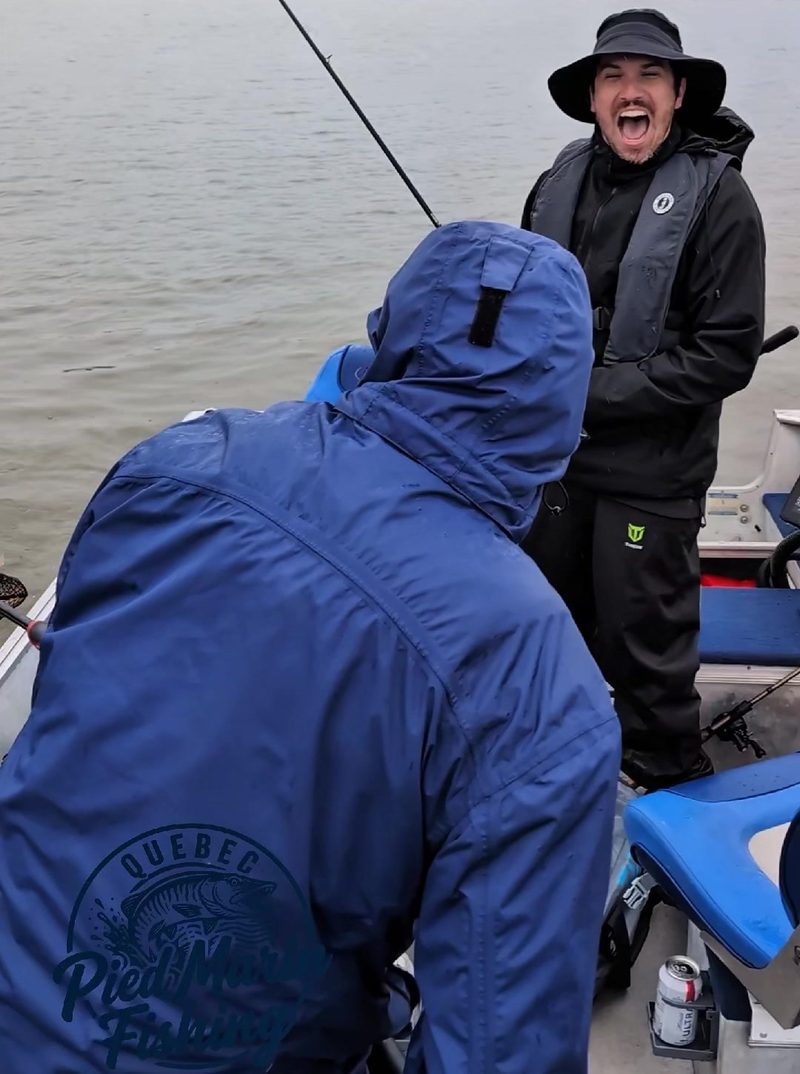
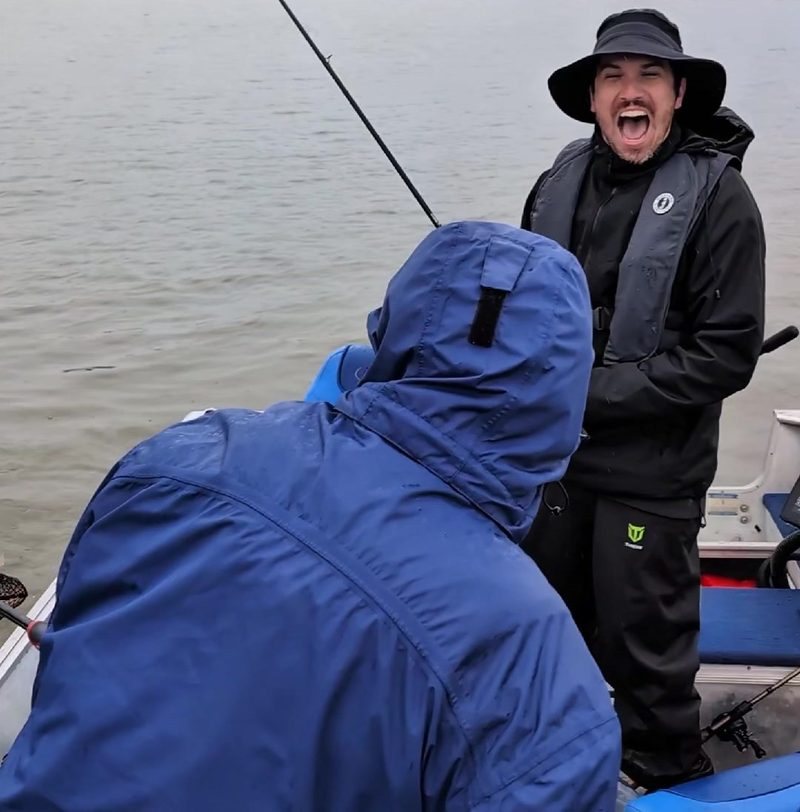
Retirer le filigrane des trois images du maskinonge, et la canette
Recoupees depuis les images sources plutot que retouchees.

L'effacement par inpainting a ete essaye et rejete : cv2.INPAINT_TELEA et
INPAINT_NS laissent tous deux un pate visible sur 400x350 px, avec la ligne
du plat-bord detruite et des restes du brochet du logo. Ces algorithmes sont
faits pour des rayures fines, pas pour un logo. Le recadrage est la seule
option propre.

Le filigrane occupe y 1566-1920 sur la source 1080x1920. Les trois images
s'arretent maintenant a 1566 : l'intersection est vide, ce qui est une preuve
geometrique et non une detection. (Un test par couleur aurait menti : le cire
bleu marine des cires donne exactement la meme signature que le logo — c'est
d'ailleurs ce qui avait fait echouer ma premiere detection.)

La bande coupee emporte aussi la canette de biere qui trainait en bas a
droite de la photo de reaction, ce qui repond a la deuxieme demande sans
avoir a flouter quoi que ce soit.

Les trois gardent leur sujet : la gerbe d'eau et le poisson en surface,
l'epuisette avec le maskinonge dedans, Kevin B. bouche grande ouverte.

Verifie : les 4 photos de la fiche chargent avec leur srcset, aucune 4xx,
imgok (155 images sur 5 formats), audit2, sync-html-fallbacks --check.

Claude-Session: https://claude.ai/code/session_01Xpd6edZqGyBhfo224pPL8k

diff --git a/prises/maskinonge-kevin-b.html b/prises/maskinonge-kevin-b.html
@@ -92,7 +92,7 @@
 
 <section class="alt"><div class="container"><div class="section-head"><h2 data-i18n="cp.story" data-en="How it happened">Comment ça s'est passé</h2></div><p class="tp-notes" data-en="A day of trolling under fine rain, near enough without a break from morning to evening, and water so stained you couldn't see a thing in it. The walleye were biting anyway — one of those days when the line never stays quiet for long. Kevin B. was pulling a small crankbait when his rod loaded up all at once: the bottom, he figured. A few seconds later the reel started peeling on its own. « Criss, le fond bouge! » — the bottom's moving. A good five to ten minutes of fight and two passes under the boat that had everyone wondering, then BOBE scooped it first try the moment Kevin brought it alongside. We were out for pike, not muskie: fifty inches out of season, measured on the cradle, one photo, and straight back in the water — not a hook left in it. It went back down as fast as it had come up.">Une journée de traîne sous la pluie fine, presque sans répit du matin au soir, et une eau si trouble qu'on n'y voyait rien. Ça mordait quand même — le doré était au rendez-vous, une de ces journées où la ligne ne reste jamais tranquille bien longtemps. Kevin B. traînait un petit crankbait quand sa canne s'est arquée d'un coup : le fond, s'est-il dit. Quelques secondes plus tard, le moulinet se déroulait tout seul. « Criss, le fond bouge! » Cinq à dix bonnes minutes de combat et deux passages sous la chaloupe à se demander s'il tiendrait, puis BOBE l'a cueilli du premier coup dès que Kevin l'a ramené le long du bord. On était au brochet, pas au maskinongé : cinquante pouces hors saison, mesurés sur la civière, une photo, et remis à l'eau sur-le-champ — pas un hameçon resté pris. Il a replongé vers le fond aussi vite qu'il en était sorti.</p></div></section>
 
-<section><div class="container"><div class="section-head"><h2 data-i18n="cp.gallery" data-en="The photos">Les photos</h2></div><div class="cp-gallery"><figure class="cp-shot"><img data-en-alt="Kevin B. and BOBE holding a 50-inch muskie aboard, in the rain" src="assets/img/catches/maskinonge-kevin-b.jpg" srcset="assets/img/catches/maskinonge-kevin-b-160.jpg 160w, assets/img/catches/maskinonge-kevin-b-400.jpg 400w, assets/img/catches/maskinonge-kevin-b-800.jpg 800w, assets/img/catches/maskinonge-kevin-b.jpg 1200w" sizes="(max-width: 700px) 92vw, 720px" alt="Kevin B. et BOBE tenant un maskinongé de 50 pouces à bord, sous la pluie" loading="eager" width="1200" height="900"></figure><figure class="cp-shot"><img data-en-alt="The muskie thrashing at the surface in a burst of white water, the net just entering the frame alongside the gunwale." src="assets/img/catches/maskinonge-kevin-b-surface.jpg" srcset="assets/img/catches/maskinonge-kevin-b-surface-160.jpg 160w, assets/img/catches/maskinonge-kevin-b-surface-400.jpg 400w, assets/img/catches/maskinonge-kevin-b-surface-800.jpg 800w, assets/img/catches/maskinonge-kevin-b-surface.jpg 900w" sizes="(max-width: 700px) 92vw, 720px" alt="Le maskinongé qui bardasse en surface dans une gerbe d'eau blanche, l'épuisette qui entre dans le cadre le long du plat-bord." loading="lazy" width="1200" height="900"></figure><figure class="cp-shot"><img data-en-alt="The muskie in the net alongside the boat: BOBE, in blue rain gear, lifting the hoop clear of the water." src="assets/img/catches/maskinonge-kevin-b-epuisette.jpg" srcset="assets/img/catches/maskinonge-kevin-b-epuisette-160.jpg 160w, assets/img/catches/maskinonge-kevin-b-epuisette-400.jpg 400w, assets/img/catches/maskinonge-kevin-b-epuisette-800.jpg 800w, assets/img/catches/maskinonge-kevin-b-epuisette.jpg 1080w" sizes="(max-width: 700px) 92vw, 720px" alt="Le maskinongé dans l'épuisette, le long de la chaloupe : BOBE, en ciré bleu, soulève le panier hors de l'eau." loading="lazy" width="1200" height="900"></figure><figure class="cp-shot"><img data-en-alt="Kevin B., mouth wide open, rod still bent: the reaction the moment the fish went into the net." src="assets/img/catches/maskinonge-kevin-b-reaction.jpg" srcset="assets/img/catches/maskinonge-kevin-b-reaction-160.jpg 160w, assets/img/catches/maskinonge-kevin-b-reaction-400.jpg 400w, assets/img/catches/maskinonge-kevin-b-reaction-800.jpg 800w, assets/img/catches/maskinonge-kevin-b-reaction.jpg 1080w" sizes="(max-width: 700px) 92vw, 720px" alt="Kevin B., bouche grande ouverte, la canne encore pliée : la réaction juste après que le poisson soit entré dans l'épuisette." loading="lazy" width="1200" height="900"></figure></div></div></section>
+<section><div class="container"><div class="section-head"><h2 data-i18n="cp.gallery" data-en="The photos">Les photos</h2></div><div class="cp-gallery"><figure class="cp-shot"><img data-en-alt="Kevin B. and BOBE holding a 50-inch muskie aboard, in the rain" src="assets/img/catches/maskinonge-kevin-b.jpg" srcset="assets/img/catches/maskinonge-kevin-b-160.jpg 160w, assets/img/catches/maskinonge-kevin-b-400.jpg 400w, assets/img/catches/maskinonge-kevin-b-800.jpg 800w, assets/img/catches/maskinonge-kevin-b.jpg 1200w" sizes="(max-width: 700px) 92vw, 720px" alt="Kevin B. et BOBE tenant un maskinongé de 50 pouces à bord, sous la pluie" loading="eager" width="1200" height="900"></figure><figure class="cp-shot"><img data-en-alt="The muskie thrashing at the surface in a burst of white water, the net just entering the frame alongside the gunwale." src="assets/img/catches/maskinonge-kevin-b-surface.jpg" srcset="assets/img/catches/maskinonge-kevin-b-surface-160.jpg 160w, assets/img/catches/maskinonge-kevin-b-surface-400.jpg 400w, assets/img/catches/maskinonge-kevin-b-surface-800.jpg 800w, assets/img/catches/maskinonge-kevin-b-surface.jpg 1080w" sizes="(max-width: 700px) 92vw, 720px" alt="Le maskinongé qui bardasse en surface dans une gerbe d'eau blanche, l'épuisette qui entre dans le cadre le long du plat-bord." loading="lazy" width="1200" height="900"></figure><figure class="cp-shot"><img data-en-alt="The muskie in the net alongside the boat: BOBE, in blue rain gear, lifting the hoop clear of the water." src="assets/img/catches/maskinonge-kevin-b-epuisette.jpg" srcset="assets/img/catches/maskinonge-kevin-b-epuisette-160.jpg 160w, assets/img/catches/maskinonge-kevin-b-epuisette-400.jpg 400w, assets/img/catches/maskinonge-kevin-b-epuisette-800.jpg 800w, assets/img/catches/maskinonge-kevin-b-epuisette.jpg 1080w" sizes="(max-width: 700px) 92vw, 720px" alt="Le maskinongé dans l'épuisette, le long de la chaloupe : BOBE, en ciré bleu, soulève le panier hors de l'eau." loading="lazy" width="1200" height="900"></figure><figure class="cp-shot"><img data-en-alt="Kevin B., mouth wide open, rod still bent: the reaction the moment the fish went into the net." src="assets/img/catches/maskinonge-kevin-b-reaction.jpg" srcset="assets/img/catches/maskinonge-kevin-b-reaction-160.jpg 160w, assets/img/catches/maskinonge-kevin-b-reaction-400.jpg 400w, assets/img/catches/maskinonge-kevin-b-reaction-800.jpg 800w, assets/img/catches/maskinonge-kevin-b-reaction.jpg 1080w" sizes="(max-width: 700px) 92vw, 720px" alt="Kevin B., bouche grande ouverte, la canne encore pliée : la réaction juste après que le poisson soit entré dans l'épuisette." loading="lazy" width="1200" height="900"></figure></div></div></section>
 
 <section class="alt"><div class="container"><div class="section-head"><h2 data-i18n="cp.gear" data-en="The gear">Le matériel</h2></div><div class="event-specs tp-specs"><div class="event-spec"><span class="event-spec-label"><span data-en="Rod">Canne</span></span><span class="event-spec-value" data-en="Baitcaster">Lancer lourd</span></div><div class="event-spec"><span class="event-spec-label"><span data-en="Go-to lure">Leurre de prédilection</span></span><span class="event-spec-value">Chatterbait</span></div></div><a class="member-history-link" href="pecheurs/kevin-b.html"><span data-en="View profile →">Voir sa fiche →</span></a></div></section>
 
